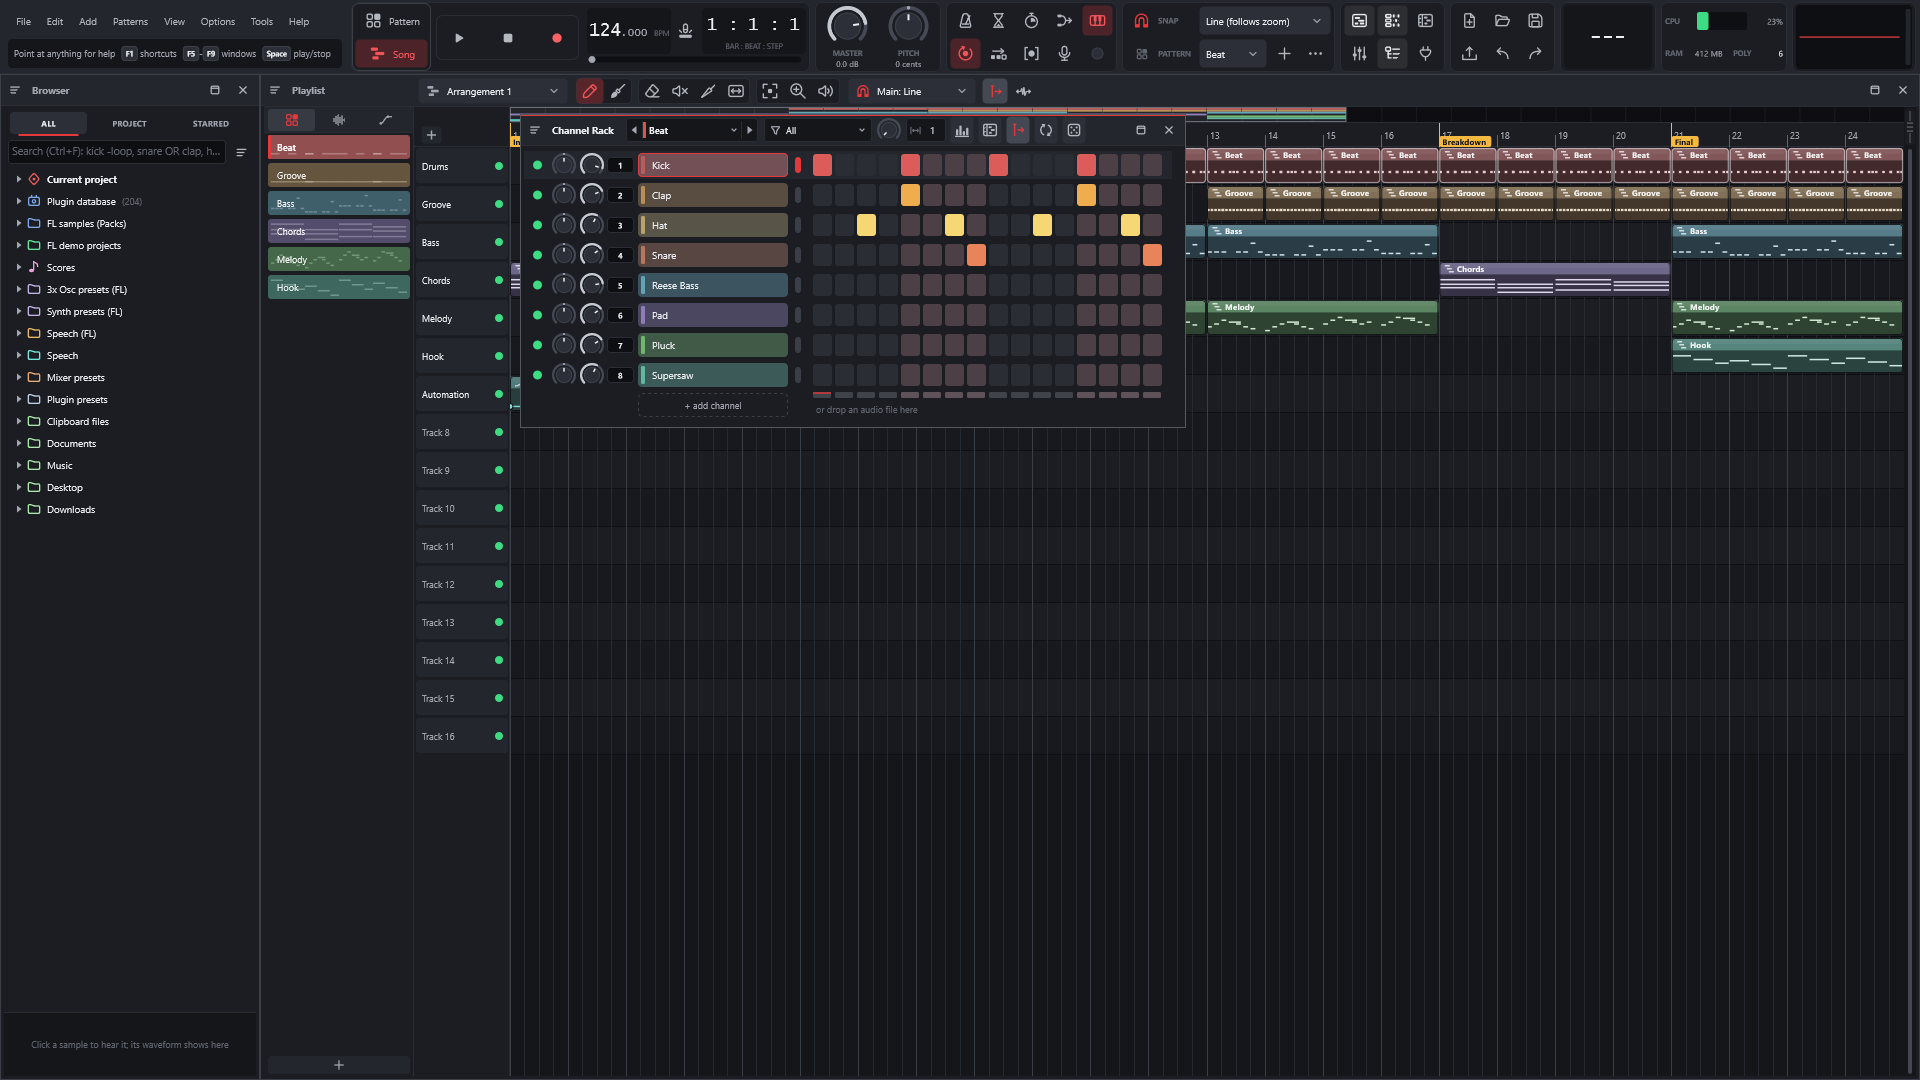
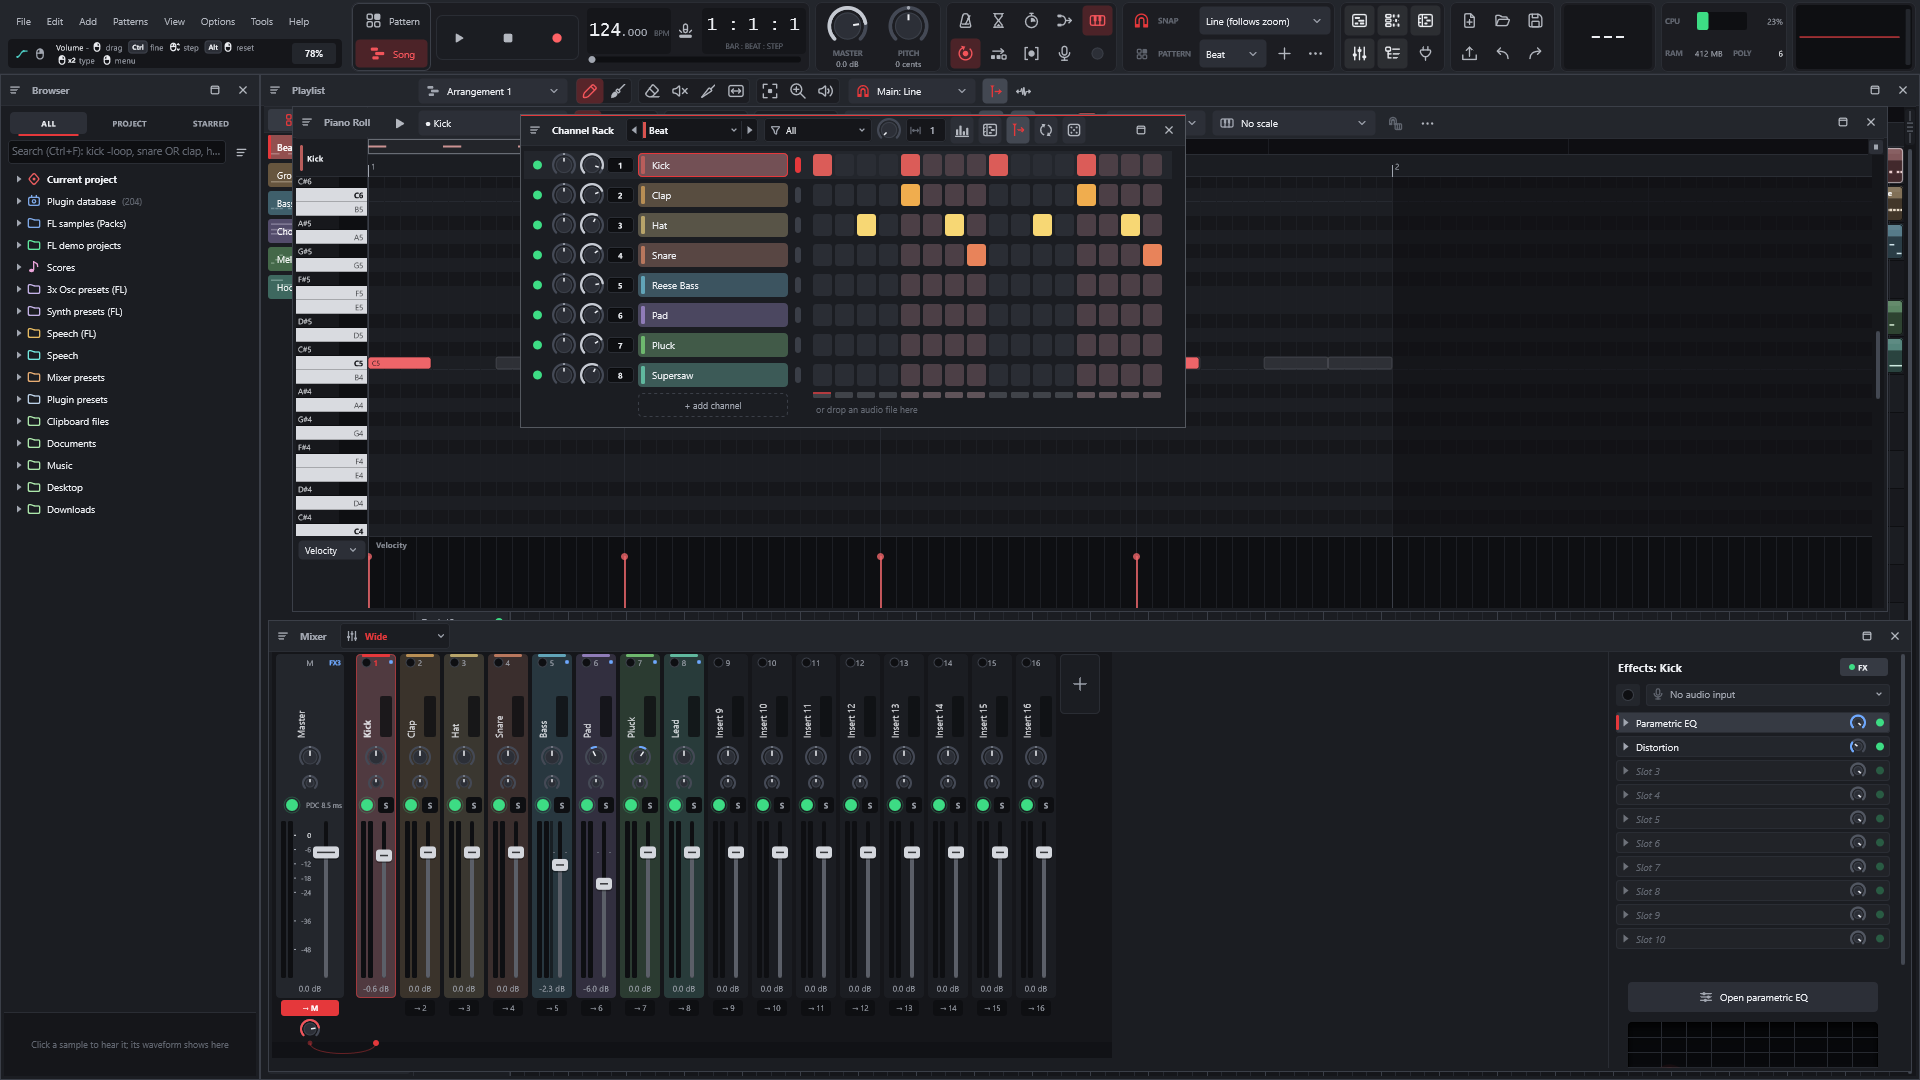
Hero with all four windows again, social preview drawn from its own text
- scripts/site-shots.py: the hero, the README's workspace, Store screenshot 01 and the
  video poster come from snap/s-desktop-all.png (demo song with the Channel Rack, Piano
  Roll, Playlist and Mixer, as the page's alt text says) instead of the plain start-up
  layout; it now also writes Store screenshots 01-04, poster.jpg and the social preview.
- scripts/social-preview.py (new): draws docs/img/social-preview.png whole from a TEXT
  table: "LYNX SHARE", FL Studio-style patterns / Ableton Live-style clips, opens .flp,
  .als and .flm and exports .flp and .als, VST3/CLAP/VST2/AU/LV2, free and open source,
  github.com/Ka1-S/LYNX-SHARE; the stale "~11 MB download" is gone. Same layout, D5 tile.
- tools/make_logo.py site: runs that script instead of pasting the icon into the old picture.
- Pictures re-made from the 0.1.27 RC2 renders (b0cb90aec); README caption and
  website/README.md notes updated. build --check, check-links (0 broken),
  check-site-i18n (0 errors, 53 warnings) and check-logo pass.

diff --git a/scripts/social-preview.py b/scripts/social-preview.py
@@ -1,0 +1,177 @@
+#!/usr/bin/env python3
+"""Draws the GitHub social preview (docs/img/social-preview.png, 1280 x 640) from its text below, the app icon and a
+picture of the workspace (Pillow).
+
+    python3 scripts/social-preview.py [--window PICTURE] [--out docs/img/social-preview.png]
+
+--window: the workspace picture shown in the frame on the right, best the 2x render (3840 x 2160) of the hero
+(snap/s-desktop-all.png of scripts/site-shots.sh: Channel Rack, Piano Roll, Playlist and Mixer on the demo song).
+Default: website/assets/img/hero@2x.webp, else hero.webp. scripts/site-shots.py calls this with the render itself;
+tools/make_logo.py (site) calls it with the default after a logo change.
+
+The words live in TEXT below: change them here, never in the picture (README, website and this card say the same:
+the formats LYNX opens and exports, the plugin formats per OS, the repository URL). The fonts are Segoe UI (bold,
+semibold, regular) as the card always had; where Windows' fonts are not found (C:\\Windows\\Fonts, also through
+/mnt/c in WSL) the app's own Open Sans (resources/fonts) is used instead, and the script says so.
+"""
+import argparse
+import os
+import sys
+
+from PIL import Image, ImageDraw, ImageFilter, ImageFont
+
+ROOT = os.path.dirname(os.path.dirname(os.path.abspath(__file__)))
+sys.path.insert(0, os.path.join(ROOT, "tools"))
+
+# --- the words ---------------------------------------------------------------------------------------------------------
+TEXT = {
+    "title": "LYNX SHARE",
+    "headline": ["FL Studio-style patterns,", "Ableton Live-style clips."],
+    "lines": [
+        "Channel Rack · Piano Roll · Playlist · Mixer",
+        "Opens .flp, .als and .flm · exports .flp and .als",
+        "VST3, CLAP, VST2, AU, LV2 · free and open source",
+    ],
+    "pills": ["Windows", "macOS", "Linux"],
+    "site": "lynx-share.com",
+    "url": "github.com/Ka1-S/LYNX-SHARE",
+}
+
+# --- the layout (1280 x 640) -------------------------------------------------------------------------------------------
+W, H = 1280, 640
+BG = (14, 15, 19)                 # the page
+GLOW = (51, 18, 23)               # the red glow towards the right edge
+LEFT = 76                         # the text column
+TILE_XY, TILE = (75, 105), 96     # the app icon
+TITLE_X, TITLE_MAX = 186, 81      # the name: left of it the icon, at most this size, centred on the icon
+HEAD_Y, HEAD_SIZE, HEAD_STEP = 222, 38, 46
+LINES_Y, LINES_SIZE, LINES_STEP = 340, 23, 36
+PILL_Y, PILL_H, PILL_SIZE, PILL_PAD, PILL_GAP = 486, 41, 20, 18, 11
+URL_Y, URL_SIZE = 566, 20
+WIN_X, WIN_Y, WIN_H = 625, 120, 507   # the window frame: 2 px border, the picture inside, cut by the right edge
+WIN_R = 10
+
+INK = {"title": (245, 245, 247), "head": (235, 235, 240), "lines": (170, 172, 182), "url": (120, 122, 132),
+       "pill": (32, 34, 42), "pill_edge": (64, 66, 78), "pill_ink": (235, 235, 240), "site": (217, 48, 56),
+       "site_ink": (255, 255, 255), "frame": (70, 72, 82)}
+
+
+def fonts():
+    """(bold, semibold, regular) font files, and whether they are the card's own (Segoe UI)."""
+    for d in ("/mnt/c/Windows/Fonts", "C:\\Windows\\Fonts", os.path.expanduser("~/.local/share/fonts"), "/usr/share/fonts/truetype/msttcorefonts"):
+        files = [os.path.join(d, f) for f in ("segoeuib.ttf", "seguisb.ttf", "segoeui.ttf")]
+        if all(os.path.isfile(f) for f in files):
+            return files, True
+    own = os.path.join(ROOT, "resources", "fonts")
+    return [os.path.join(own, "OpenSans-Bold.ttf")] * 2 + [os.path.join(own, "OpenSans-Regular.ttf")], False
+
+
+def background():
+    im = Image.new("RGB", (W, H), BG)
+    px = im.load()
+    for x in range(W):
+        t = min(1.0, max(0.0, (x - 560) / 560.0))
+        t = t * t * (3 - 2 * t)
+        c = tuple(round(BG[i] + (GLOW[i] - BG[i]) * t) for i in range(3))
+        for y in range(H):
+            px[x, y] = c
+    return im
+
+
+def window(src, h):
+    """The workspace picture scaled to the frame's inner height."""
+    im = Image.open(src).convert("RGB")
+    w = round(im.width * h / im.height)
+    return im.resize((w, h), Image.LANCZOS)
+
+
+def draw(win_src, out):
+    files, own = fonts()
+    if not own:
+        print("social-preview: Segoe UI not found, using Open Sans (resources/fonts)")
+    bold = lambda s: ImageFont.truetype(files[0], s)
+    semi = lambda s: ImageFont.truetype(files[1], s)
+    reg = lambda s: ImageFont.truetype(files[2], s)
+
+    im = background().convert("RGBA")
+
+    # the window: a soft shadow, the 2 px frame with round corners, the picture inside (cut by the right edge)
+    pic = window(win_src, WIN_H - 4)
+    fw = pic.width + 4
+    shadow = Image.new("L", (W, H), 0)
+    ImageDraw.Draw(shadow).rounded_rectangle((WIN_X - 6, WIN_Y + 4, WIN_X + fw + 6, WIN_Y + WIN_H + 14), WIN_R + 6, fill=170)
+    shadow = shadow.filter(ImageFilter.GaussianBlur(18))
+    dark = Image.new("RGBA", (W, H), (4, 3, 4, 0))
+    dark.putalpha(shadow)
+    im.alpha_composite(dark)
+    k = 4
+    mask = Image.new("L", (fw * k, WIN_H * k), 0)
+    ImageDraw.Draw(mask).rounded_rectangle((0, 0, fw * k - 1, WIN_H * k - 1), WIN_R * k, fill=255)
+    mask = mask.resize((fw, WIN_H), Image.LANCZOS)
+    framed = Image.new("RGBA", (fw, WIN_H), INK["frame"] + (255,))
+    inner = Image.new("L", (fw * k, WIN_H * k), 0)
+    ImageDraw.Draw(inner).rounded_rectangle((2 * k, 2 * k, (fw - 2) * k - 1, (WIN_H - 2) * k - 1), (WIN_R - 2) * k, fill=255)
+    inner = inner.resize((fw, WIN_H), Image.LANCZOS)
+    framed.paste(pic, (2, 2), inner.crop((2, 2, 2 + pic.width, 2 + pic.height)))
+    framed.putalpha(mask)
+    im.alpha_composite(framed.crop((0, 0, min(fw, W - WIN_X), WIN_H)), (WIN_X, WIN_Y))
+
+    d = ImageDraw.Draw(im)
+    # the icon and the name, the name as large as fits before the window (at most TITLE_MAX), centred on the icon
+    import make_logo
+    im.alpha_composite(make_logo.Logo().icon(TILE), TILE_XY)
+    size = TITLE_MAX
+    while size > 40 and bold(size).getlength(TEXT["title"]) > WIN_X - 36 - TITLE_X:
+        size -= 1
+    f = bold(size)
+    top, bottom = f.getbbox("LYNX")[1], f.getbbox("LYNX")[3]
+    d.text((TITLE_X, TILE_XY[1] + TILE / 2 - (top + bottom) / 2), TEXT["title"], font=f, fill=INK["title"])
+
+    for i, t in enumerate(TEXT["headline"]):
+        d.text((LEFT - 2, HEAD_Y + i * HEAD_STEP), t, font=semi(HEAD_SIZE), fill=INK["head"])
+    for i, t in enumerate(TEXT["lines"]):
+        d.text((LEFT, LINES_Y + i * LINES_STEP), t, font=reg(LINES_SIZE), fill=INK["lines"])
+
+    # the platforms, then the website in red
+    f = semi(PILL_SIZE)
+    x = LEFT
+    for t, site in [(p, False) for p in TEXT["pills"]] + [(TEXT["site"], True)]:
+        w = round(f.getlength(t)) + 2 * PILL_PAD
+        box = (x, PILL_Y, x + w, PILL_Y + PILL_H)
+        if site:
+            d.rounded_rectangle(box, PILL_H // 2, fill=INK["site"])
+        else:
+            d.rounded_rectangle(box, PILL_H // 2, fill=INK["pill"], outline=INK["pill_edge"], width=1)
+        d.text((x + w / 2, PILL_Y + PILL_H / 2), t, font=f, anchor="mm", fill=INK["site_ink" if site else "pill_ink"])
+        x += w + PILL_GAP
+
+    d.text((LEFT, URL_Y), TEXT["url"], font=reg(URL_SIZE), fill=INK["url"])
+
+    # nothing may run into the window
+    widest = max([LEFT + reg(LINES_SIZE).getlength(t) for t in TEXT["lines"]]
+                 + [LEFT + semi(HEAD_SIZE).getlength(t) for t in TEXT["headline"]] + [x - PILL_GAP])
+    if widest > WIN_X - 12:
+        sys.exit("social-preview: a line is %d px wide and runs into the window: shorten it" % (widest - LEFT))
+
+    os.makedirs(os.path.dirname(os.path.abspath(out)), exist_ok=True)
+    im.convert("RGB").save(out, optimize=True)
+    print("  %s (%dx%d, window from %s)" % (os.path.relpath(out, ROOT), W, H, os.path.relpath(win_src, ROOT)))
+
+
+def main():
+    ap = argparse.ArgumentParser(description=__doc__, formatter_class=argparse.RawDescriptionHelpFormatter)
+    ap.add_argument("--window")
+    ap.add_argument("--out", default=os.path.join(ROOT, "docs", "img", "social-preview.png"))
+    a = ap.parse_args()
+    src = a.window
+    if not src:
+        img = os.path.join(ROOT, "website", "assets", "img")
+        src = next((f for f in (os.path.join(img, "hero@2x.webp"), os.path.join(img, "hero.webp")) if os.path.isfile(f)), None)
+    if not src or not os.path.isfile(src):
+        sys.exit("social-preview: no workspace picture (give --window)")
+    draw(src, a.out)
+    return 0
+
+
+if __name__ == "__main__":
+    sys.exit(main())

diff --git a/scripts/site-shots.py b/scripts/site-shots.py
@@ -13,6 +13,10 @@ Writes (names as website/_src/build.py reads them):
   website/_src/catalog-img.json, website/_src/img-sizes.json the 1x sizes (build.py writes width/height from them;
                                                              a catalog entry [w, h, 2] has an @2x file for srcset)
   docs/img/<name>.png + <name>@2x.png                        the README's pictures (README_PICTURES below)
+  docs/img/social-preview.png                                the GitHub social preview (scripts/social-preview.py: its text
+                                                             lives there) around the hero's render
+  store/screenshots/<name>.png                               the Store screenshots 01-04 (STORE below), 1x
+  website/assets/media/poster.jpg                            the Features video's poster, 1280 x 720 from the 2x hero
 The @2x file is always exactly twice the 1x file's size and is drawn by the program at 2x (never an upscale). A 2x
 render missing for a picture: no @2x file is written (and an old one is removed), the table says so.
 Pictures larger than the page shows are fitted (plugins 960 px wide, wiki 1600 px) with the same factor at both scales.
@@ -35,7 +39,7 @@ from PIL import Image, ImageDraw
 
 # Home / Features pictures: name -> (render, crop box at 1x or None)
 TOP = {
-    "hero": ("snap/s-desktop.png", None),
+    "hero": ("snap/s-desktop-all.png", None),       # Channel Rack, Piano Roll, Playlist and Mixer (the page's alt text)
     "playlist": ("snap/s-playlist.png", None),
     "pianoroll": ("snap/s-pianoroll.png", None),
     "mixer": ("snap/s-mixer.png", None),
@@ -47,7 +51,7 @@ TOP = {
 }
 # the README's pictures (docs/img/<name>.png): the 1600 x 900 window for the wide ones, as the README had them
 README_PICTURES = {
-    "workspace": ("snap1600/s-desktop.png", None),
+    "workspace": ("snap1600/s-desktop-all.png", None),  # the same four windows as the hero (the README's caption)
     "playlist": ("snap/s-playlist.png", (150, 75, 1920, 800)),
     "channel-rack": ("snap/s-rack.png", (0, 0, 1074, 420)),
     "piano-roll": ("snap1600/s-pianoroll.png", None),
@@ -57,6 +61,18 @@ README_PICTURES = {
     "automation": ("snap/s-automation.png", None),
     "clip-launch": ("grid1600/g-both.png", None),
 }
+# the Microsoft Store listing's screenshots (store/screenshots/<name>.png, 1920 x 1080, 1x only); 05-instruments-effects is
+# put together by hand (Channel Rack + a synth + Parametric EQ) and is not written here
+STORE = {
+    "01-workspace": "snap/s-desktop-all.png",
+    "02-playlist": "snap/s-playlist.png",
+    "03-piano-roll": "snap/s-pianoroll-narrow150.png",
+    "04-mixer": "snap/s-mixer.png",
+}
+# the Features page's video poster (website/assets/media/poster.jpg, 1280 x 720) and the GitHub social preview
+# (docs/img/social-preview.png, drawn by scripts/social-preview.py around it): both from the hero's render
+POSTER = "snap/s-desktop-all.png"
+
 # wiki pictures that are a part of a snapshot: name -> (snapshot, box at 1x). The Plugin manager's sample rows name
 # other makers' plugins, so the site shows only the part below them (same as website/_src/import-shots.py).
 CROPS = {"plugin-manager-scan": ("plugin-manager", (0, 330, 980, 600))}
@@ -241,6 +257,7 @@ def main():
     ap.add_argument("renders")
     ap.add_argument("--site", default="website")
     ap.add_argument("--docs", default="docs/img")
+    ap.add_argument("--store", help="the Store screenshots folder (default: store/screenshots beside the site folder)")
     ap.add_argument("--logo-was", help="the logo the renders' build draws (repaint its button with the brand's mark)")
     ap.add_argument("--dry-run", action="store_true")
     a = ap.parse_args()
@@ -256,6 +273,40 @@ def main():
 
     for name, (ref, box) in README_PICTURES.items():
         w.pair(root, ref, box, docs / (name + ".png"), docs / (name + "@2x.png"), fmt="png")
+
+    # the Store screenshots (1x), the video poster and the social preview, from the hero's render
+    store = Path(a.store) if a.store else site.resolve().parent / "store" / "screenshots"
+    for name, ref in STORE.items():
+        f1 = render(root, ref, 1)
+        if f1 is None:
+            w.rows.append((str(store / (name + ".png")), "-", 0, "MISSING " + ref))
+            continue
+        one = Image.open(f1)
+        if w.painter:
+            one, _ = w.painter.paint(one, 1)
+        w.put(store / (name + ".png"), png(one), one.size, str(f1))
+    two = render(root, POSTER, 2)
+    big = two or render(root, POSTER, 1)
+    if big is None:
+        w.rows.append((str(site / "assets/media/poster.jpg"), "-", 0, "MISSING " + POSTER))
+    else:
+        im = Image.open(big)
+        if w.painter:
+            im, _ = w.painter.paint(im, 2 if two else 1)
+        out = io.BytesIO()
+        im.convert("RGB").resize((1280, 720), Image.LANCZOS).save(out, "JPEG", quality=88, optimize=True, progressive=True)
+        w.put(site / "assets/media/poster.jpg", out.getvalue(), (1280, 720), str(big))
+        social = docs / "social-preview.png"
+        tool = Path(__file__).resolve().parent / "social-preview.py"
+        tmp = Path(str(social) + ".new.png")
+        import subprocess
+        done = subprocess.run([sys.executable, str(tool), "--window", str(big), "--out", str(tmp)], capture_output=True, text=True)
+        if done.returncode != 0 or not tmp.is_file():
+            w.rows.append((str(social), "-", 0, "MISSING: social-preview.py failed: " + (done.stderr or done.stdout).strip()))
+        else:
+            data = tmp.read_bytes()
+            tmp.unlink()
+            w.put(social, data, Image.open(io.BytesIO(data)).size, "social-preview.py + " + str(big))
 
     catalog = src / "catalog.json"
     if catalog.is_file():

diff --git a/tools/make_logo.py b/tools/make_logo.py
@@ -23,7 +23,7 @@ import os
 import re
 import sys
 
-from PIL import Image, ImageDraw
+from PIL import Image
 
 ROOT = os.path.dirname(os.path.dirname(os.path.abspath(__file__)))
 BRAND = os.path.join(ROOT, "resources", "brand")
@@ -182,13 +182,9 @@ def site(L):
     art = Image.new("RGBA", (1080, 1080), (17, 17, 20, 255))
     art.alpha_composite(L.icon(800), (140, 140))
     save(art.convert("RGB"), "store", "box-art-1080.png")
-    # GitHub social preview: the icon in the logo's place left of "LYNX" (a flat background there), its left edge on the
-    # text column (x 75), centred on the word's capitals (y 124-182)
-    sp = Image.open(p("docs", "img", "social-preview.png")).convert("RGBA")
-    ImageDraw.Draw(sp).rectangle((60, 70, 176, 206), fill=(14, 15, 19, 255))
-    side = 96
-    sp.alpha_composite(L.icon(side), (75, 153 - side // 2))
-    save(sp.convert("RGB"), "docs", "img", "social-preview.png")
+    # GitHub social preview: drawn whole (text, this icon, the website's hero picture) by scripts/social-preview.py
+    import subprocess
+    subprocess.run([sys.executable, p("scripts", "social-preview.py")], check=True)
 
 
 def app(L):

diff --git a/website/README.md b/website/README.md
@@ -96,6 +96,15 @@ the earlier pepper in the logo button of a plugin's header: `scripts/site-shots.
 repainted that button with the mark (without the tile, on a dark disc, as the program draws it from 0.1.27). At the
 next release, whose program draws the new logo itself, run `site-shots.py` again WITHOUT `--logo-was` so nothing is painted.
 
+**Hero, social preview, poster, Store.** `site-shots.py` takes the hero (`assets/img/hero.webp`), the README's
+`docs/img/workspace.png`, Store screenshot `01-workspace.png` and `assets/media/poster.jpg` from `snap/s-desktop-all.png`
+(the demo song with the Channel Rack, Piano Roll, Playlist and Mixer open, as the hero's alt text says; `s-desktop.png`
+is the plain start-up layout). It also writes Store screenshots 02-04 and the GitHub social preview
+`docs/img/social-preview.png`, which `scripts/social-preview.py` draws whole: its words are the `TEXT` table at the top
+of that script (name, formats opened and exported, plugin formats, platforms, repository URL). Change them there and
+run it again, never edit the picture; keep them in line with the README. The preview is uploaded by hand in the
+repository's Settings > Social preview.
+
 ## 0.1.27 release: what the texts do not cover yet
 
 Branch wip/rel190eu (round 190eu) has the 0.1.27 Updates entry and the page texts (features, fixes, why, home, FAQ,

diff --git a/README.md b/README.md
@@ -43,7 +43,7 @@ Opens FL Studio, Ableton Live and FL Studio Mobile projects (`.flp`, `.als`, `.f
 
 <p align="center">
   <img src="docs/img/workspace.png" alt="The LYNX SHARE workspace: browser, playlist, piano roll, channel rack and mixer" width="100%">
-  <br><sub>LYNX SHARE's own demo project (<code>LYNX.exe --showcase</code>) in the 0.1.19 workspace: browser, Piano Roll, Channel Rack and Mixer.</sub>
+  <br><sub>LYNX SHARE's own demo project (<code>LYNX.exe --showcase</code>) in the workspace: browser, Playlist, Piano Roll, Channel Rack and Mixer.</sub>
 </p>
 
 ---
